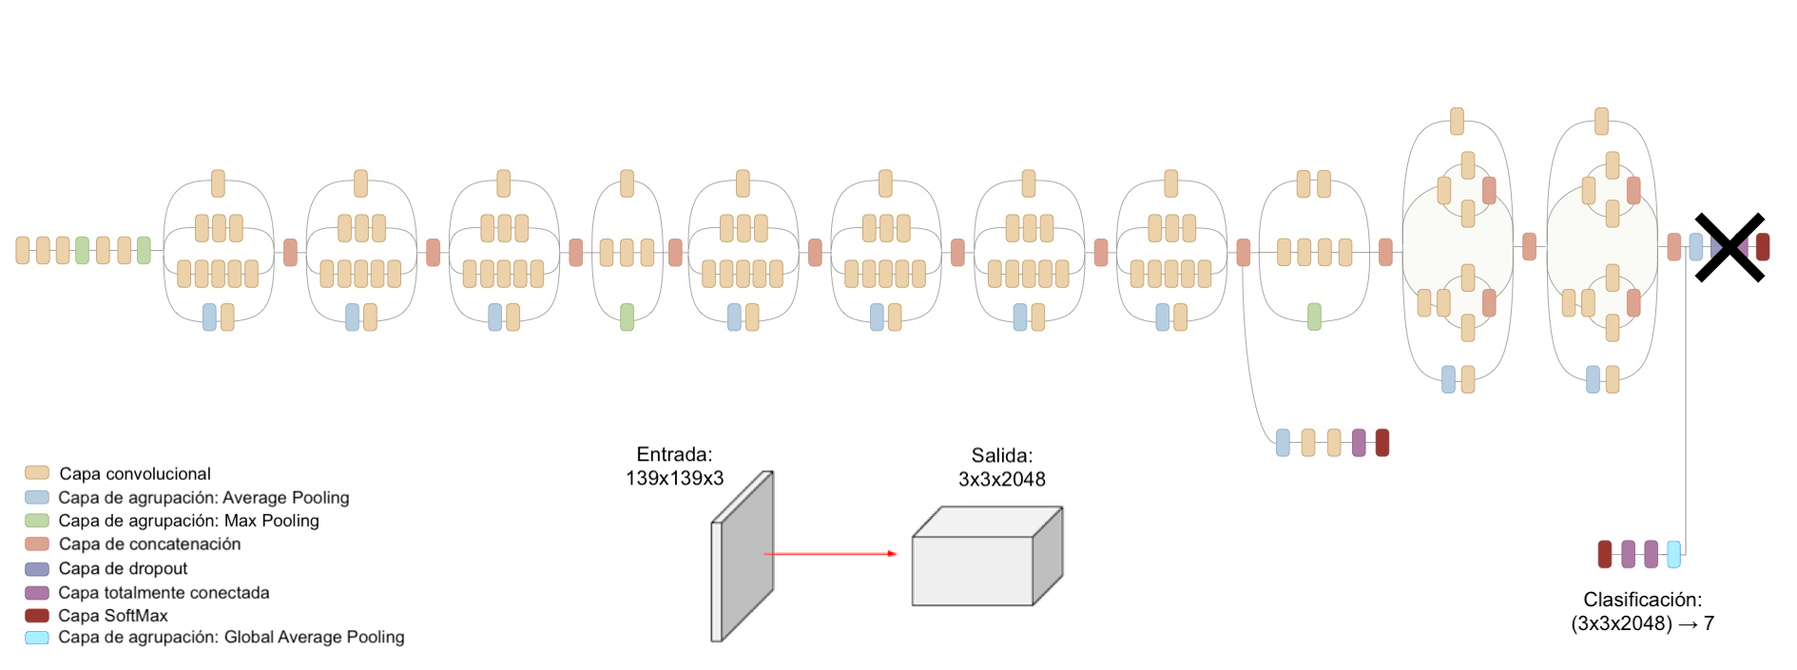
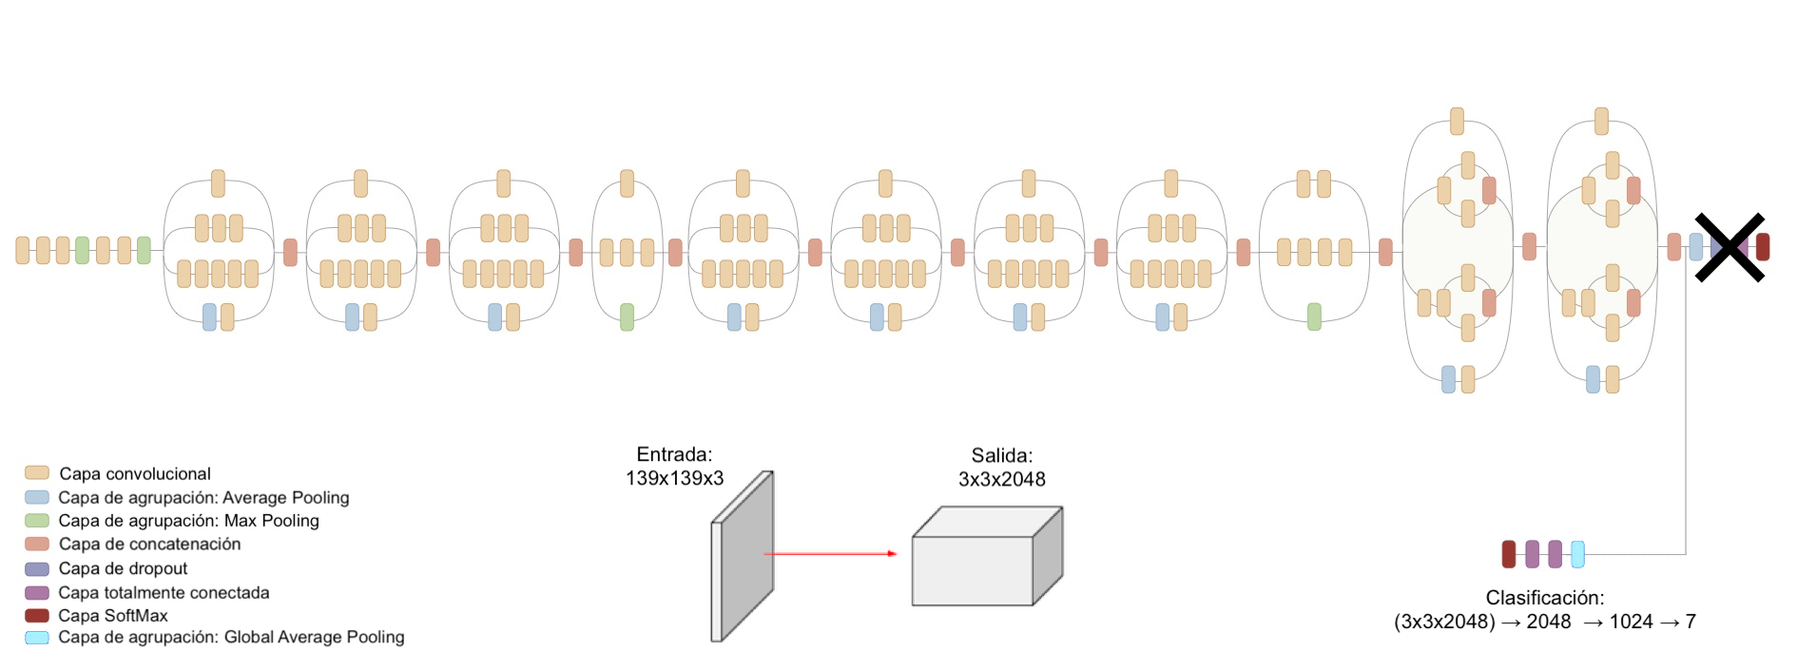
Restructuring

Changed region(s): [[0.7804, 0.8113, 0.9677, 0.9674], [0.6868, 0.6241, 0.7804, 0.6865]]

diff --git a/Chapters/chapter_5.tex b/Chapters/chapter_5.tex
@@ -1,6 +1,4 @@
-\renewcommand{\itemautorefname}{Punto}
-
-\chapter{Modelos Propuestos} \label{Chapter:5}
+\chapter{Modelos Propuestos y Resultados} \label{Chapter:5}
 
 Tal y como se ha comentado en la \autoref{Chapter:TransferLearning}, la explotación de las técnicas de transferencia de aprendizaje y por lo tanto el empleo de unos modelos con una serie de pesos ya definidos con respecto a un conjunto de datos determinado, constituyen la base de los sistemas propuestos en este capítulo.
 
@@ -11,25 +9,15 @@ Tal y como se ha comentado en la \autoref{Chapter:TransferLearning}, la explotac
     \label{fig:Models}
 \end{figure}
 
-Por consiguiente, son utilizados en primera instancia los modelos Inception-v3 \cite{Inception-v3} e Inception-ResNet-v2 \cite{Inception-ResNet} con los pesos entrenados previamente sobre el conjunto de datos ImageNet descrito en la \autoref{Chapter:ImageNet}. Sin embargo, dado que las propiedades de las imágenes de esta base de datos difieren en gran medida de las características faciales que se intentan aprender y reconocer, se ha optado por explorar el uso de modelos más sencillos pero enfocados al reconocimiento facial. Es por ello que en última instancia se emplea el modelo ResNet-50 preetrenado con la base de datos VGGFace2 expuesta en la \autoref{Chapter:VGGFace2}. La comparación de estos modelos en el desempeño del desafío ILSVRC puede observarse en la \autoref{fig:Models}. Esta representación, además, escenifica la principal razón de la elección de estos modelos concretos: son los que mejores tasas obtienen con respecto al coste computacional y al número de parámetros.
-
-Por último, obtenidos unos resultados más que aceptables y eficientes en lo que respecta al tiempo de entrenamiento, se ha intentado dar un paso más allá con la intención de mejorar las tasas de acierto y la calidad de la base de datos inicial mediante la implementación de una Red Generativa Antagónica (GAN) que permita la producción artificial de imágenes y, por lo tanto, la eliminación del desequilibrio de la distribución de clases del conjunto FER-2013.
+Por consiguiente, son utilizados en primera instancia los modelos Inception-v3 \cite{Inception-v3} e Inception-ResNet-v2 \cite{Inception-ResNet} con los pesos entrenados previamente sobre el conjunto de datos ImageNet descrito en la \autoref{Chapter:ImageNet}. Sin embargo, dado que las propiedades de las imágenes de esta base de datos difieren en gran medida de las características faciales que se intentan aprender y reconocer, se ha optado por explorar el uso de modelos menos eficaces pero enfocados al reconocimiento facial. Es por ello que en última instancia se emplea la arquitectura ResNet-50 preetrenada con la base de datos VGGFace2 expuesta en la \autoref{Chapter:VGGFace2}. La comparación de estos modelos en el desempeño del desafío ILSVRC puede observarse en la \autoref{fig:Models}. Esta representación, además, escenifica la principal razón por la cual se han elegido estos sistemas concretos: son los que mejores tasas obtienen con respecto al coste computacional y al número de parámetros.
 
 En definitiva, a lo largo del proceso de desarrollo de un sistema de reconocimiento de expresiones faciales válido, se han ido explorando numerosas arquitecturas (Inception-v3, Inception-ResNet-v2 y ResNet-50) y técnicas (aumento de datos) con el objetivo de ir obteniendo cada vez mejores resultados sobre la base de datos FER-2013. Asimismo, a fin de permitir una comparación justa con respecto a los resultados de la \autoref{Chapter:RelatedWork}, son utilizados los protocolos de uso estipulados inicialmente por este desafío y que establecen la división de esta base de datos en tres conjuntos diferentes: entrenamiento, validación y evaluación.
 
-\section{Afinación del Modelo Inception-v3}
+\section{Arquitecturas afinadas}
 
 Inception-v3 ha sido el resultado de las investigaciones llevadas a cabo por el equipo de Google para conseguir un modelo con una arquitectura cada vez más profunda e inteligente y capaz de desenvolverse de forma eficiente, tanto computacionalmente como cualitativamente, en el desafío ILSVR.
 
-%Su diseño, motivado por los experimentos a gran escala llevados a cabo sobre distintas redes convolucionales, gira en torno a cuatro principios %básicos \cite{Inception-v3}:
-%\begin{enumerate}
-%  \item Evitar los cuellos de botella, de modo que los datos fluyan de forma uniforme a lo largo de la red.
-%  \item Aumentar el número de dimensiones a medida que la información avance por la red. Las redes, de esta forma, se entrenarán más rápido.
-%  \item Bajar la resolución de la entrada antes de una capa convolucional promueve un aprendizaje más rápido y no da lugar a pérdidas %significativas de la ganancia de información.
-%  \item Equilibrar el ancho y la profundidad de la red aumenta el rendimiento de las redes neuronales. \label{item:4}
-%\end{enumerate}
-
-\subsection{Arquitectura}
+\subsection{Inception-v3}
 
 \begin{figure}
     \centering
@@ -40,68 +28,119 @@ Inception-v3 ha sido el resultado de las investigaciones llevadas a cabo por el 
 
 \begin{figure}
     \centering
-    \includegraphics[width=\textwidth]{Images/emotions.png}
-    \caption{\cite{Inception-v3}.}
-    \label{fig:InceptionModule}
+    \includegraphics[width=\textwidth]{Images/InceptionModules.png}
+    \caption{Módulos Inception empleados en la arquitectura Inception-v3. Estas estructuras son utilizadas para promover las representaciones de alta dimensión (izquierda) y la factorización de las convoluciones de dimensión $n\times n$ (derecha) \cite{Inception-v3}. En el caso particular de Inception-v3, $n=7$.}
+    \label{fig:InceptionModules}
 \end{figure}
 
-En la \autoref{fig:Inception-v3} se muestra la estructura simplificada y adaptada al problema del reconocimiento de expresiones faciales del modelo Inception-v3. Esta arquitectura propuesta es básicamente una sucesión de tramos convolucionales y no linealidades, empleándose la función de activación ReLU y la normalización por lotes en cada una de las etapas, aunque esto último no se muestre explícitamente en la representación anteriormente mencionada. Como se ha podido advertir, la característica principal de este modelo es el hecho de que el flujo de datos a lo largo de algunas secciones de esta red no es secuencial, sino que se realiza en paralelo. Estas agrupaciones son conocidas como módulos Inception y representan la solución a los problemas de eficiencia de las redes estado del arte predecesoras, cumpliendo, además, la misma función y obteniendo los mismos resultados que una capa convolucional estándar. Las diferentes estructuras de estos módulos empleados por el modelo Inception-v3 pueden observarse en la \autoref{fig:InceptionModules}. La idea detrás de estas disposiciones paralelas es que dada la misma entrada para varias capas convolucionales o de agrupación de distinto tamaño se generen características únicas para cada una de ellas que posteriormente procederán a concatenarse. Este enfoque, sin embargo, da lugar a una salida con una profundidad extremadamente grande que es solucionada principalmente mediante la utilización de filtros convolucionales $1\times 1$, especialmente efectivos para reducir la dimensionalidad \cite{NetworkInNetwork}, justo antes de las capas convolucionales de mayor tamaño. Otro de los puntos que es explotado por los módulos Inception es la sustitución de los filtros tradicionales de tamaño $n\times n$ por una secuencia de capas convolucionales de dimensionest $1\times n$ y $n \times 1$. Mediante esta técnica se consigue disminuir drásticamente los costes computacionales a medida que $n$ aumenta. En la práctica y tal como se ha visto en la \autoref{fig:InceptionModules}, son utilizados básicamente filtros con $n = 7$ y $n = 3$.
+En la \autoref{fig:Inception-v3} se muestra la estructura simplificada y adaptada al problema del reconocimiento de expresiones faciales del modelo Inception-v3. Esta arquitectura propuesta es básicamente una sucesión de tramos convolucionales y no linealidades, empleándose la función de activación ReLU y la normalización por lotes en cada una de las etapas, aunque esto último no se muestre explícitamente en la representación anteriormente mencionada. Como se ha podido advertir, la característica principal de este modelo es el hecho de que el flujo de datos a lo largo de algunas secciones de esta red no es secuencial, sino que se realiza en paralelo. Estas agrupaciones son conocidas como módulos Inception y representan la solución a los problemas de eficiencia de las redes estado del arte predecesoras, cumpliendo, además, la misma función y obteniendo los mismos resultados que una capa convolucional estándar. Las diferentes estructuras de estos módulos empleados por el modelo Inception-v3 pueden observarse en la \autoref{fig:InceptionModules}. La idea detrás de estas disposiciones paralelas es que dada la misma entrada para varias capas convolucionales o de agrupación de distinto tamaño se generen características únicas para cada una de ellas que posteriormente procederán a concatenarse. Este enfoque, sin embargo, da lugar a una salida con una profundidad extremadamente grande que es solucionada mediante la utilización de filtros convolucionales $1\times 1$, especialmente efectivos para reducir la dimensionalidad \cite{NetworkInNetwork} e incorporados justo antes de las capas convolucionales de mayor tamaño. Otro de los puntos que es explotado por los módulos Inception es la sustitución de los filtros tradicionales de tamaño $n\times n$ por una secuencia de capas convolucionales de dimensiones $1\times n$ y $n \times 1$. Mediante esta técnica se consigue disminuir drásticamente los costes computacionales a medida que $n$ aumenta. En la práctica y tal como se ha visto en la \autoref{fig:InceptionModules}, son utilizados básicamente filtros con $n = 7$ y $n = 3$.
 
-Por otro lado, dado que esta red ha sido diseñada para el reto de ImageNet, ha sido necesario sustituir la etapa de clasificación del modelo Inception-v3 original, tal y como se ha visto en la \autoref{fig:Inception-v3}. De esta forma, en primer lugar se ha introducido una capa basada en la agrupación promedio global, que impone la correspondencia entre los mapas de activación y las clases, reduce el número de parámetros y además es menos propensa al sobreaprendizaje que las capas convencionales totalmente conectadas \cite{NetworkInNetwork}. Posteriormente y con la finalidad de reducir la dimensionalidad de la red de una manera suave a las 7 clases correspondientes a las expresiones faciales que se pretenden clasificar, se han insertado dos capas totalmente conectadas.
+Por otro lado, dado que esta red ha sido diseñada para competir en el reto ImageNet, es necesario modificar la etapa de clasificación del modelo Inception-v3 original, tal y como se ha indicado en la \autoref{fig:Inception-v3}. De esta forma, en primer lugar se ha procedido a introducir una capa basada en la agrupación promedio global, que impone la correspondencia entre los mapas de activación y las clases, reduce el número de parámetros y además es menos propensa al sobreaprendizaje que las capas convencionales totalmente conectadas \cite{NetworkInNetwork}. Posteriormente y con la finalidad de reducir la dimensionalidad de la red de una manera suave a las 7 clases correspondientes a las expresiones faciales que se pretenden clasificar, son insertadas dos capas totalmente conectadas de 2\,048 y 1\,024 neuronas respectivamente.
 
-\subsection{Preprocesamiento de los datos de entrenamiento}
+En cuanto a la entrada y puesto que las imágenes del conjunto de datos FER-2013 presentan una resolución bastante baja ($48\times 48$ píxeles) en comparación con las representaciones de ImageNet ($299\times 299$ píxeles) y las mínimas aceptadas por el modelo Inception-v3 ($139\times 139$ píxeles), es requerida una modificación parcial del comportamiento de la primera etapa de la arquitectura utilizada. Concretamente es necesario modificar las dos primeras capas de agrupación para evitar la omisión de parte de los datos inyectados en la entrada. Sin embargo, esto ya es realizado por Keras de forma automática.
 
+\subsection{Inception-ResNet-v2}
 
-\subsection{Entrenamiento}
-
-\subsection{Resultados}
-
-
-
-\cite{Inception-v3}
-
-
-
-
-\section{Afinación del Modelo Inception-ResNet-v2}
 
 \cite{Inception-ResNet}
 
-\subsection{Preprocesamiento de los datos}
 
-\subsection{Arquitectura}
+\subsection{ResNet-50}
 
-\subsection{Entrenamiento}
-
-\subsection{Resultados}
-
-
-
-
-
-
-
-
-\section{Afinación del Modelo ResNet-50}
 \cite{ResNet}
 
-\subsection{Preprocesamiento de los datos}
-
-\subsection{Arquitectura}
-
-\subsection{Entrenamiento}
-
-\subsection{Resultados}
-
-
-
-
-\section{CycleGAN - Extensión de la Base de Datos FER-2013}
+\section{Entrenamiento}
 
 \subsection{Preprocesamiento de los datos}
 
-\subsection{Arquitectura}
+En este proyecto, los objetivos principales del preprocesamiento del conjunto de entrenamiento de la base de datos FER-2013 son el aumento de la heterogeneidad o diversidad de estas imágenes y su adaptación a las características de los distintos modelos empleados, así como a las especificaciones impuestas por ciertas herramientas de la API de Keras. Por todo ello, son aplicadas las siguientes transformaciones a los datos antes de su procesamiento por las arquitecturas planteadas en los siguientes apartados:
+\begin{itemize}
+  \item \textbf{Redimensionamiento}. En primer lugar es necesario modificar la resolución original de $48\times 48$ píxeles de las imágenes del conjunto de datos FER-2013 a las dimensiones aceptadas por los modelos Inception-v3, Inception-ResNet-v2 y ResNet-50 cargados en la librería de Keras. En los tres casos, y dadas las limitaciones de memorias observadas durante el entrenamiento (tratadas más detenidamente en las secciones correspondientes), la conversión se realiza a las proporciones mínimas aceptadas por estas arquitecturas:
+        \begin{itemize}
+          \item \textbf{Inception-v3}: $139\times 139$ píxeles.
+          \item \textbf{Inception-ResNet-v2}: $139\times 139$ píxeles.
+          \item \textbf{ResNet-50}: $197\times 197$ píxeles.
+        \end{itemize}
 
-\subsection{Entrenamiento}
+  Este proceso se realiza mediante el método considerado como estándar para este tipo de tareas de manipulación de imágenes y es conocido como interpolación bicúbica. A pesar de que su tiempo de procesamiento es más lento en comparación con las alternativas existentes (interpolación bilineal o interpolación por el vecino más cercano) es el que mejor resultados permite obtener en términos de calidad. Por ello y para evitar aumentar más el ruido de las imágenes empleadas, cuya calidad de por sí es bastante pobre, se ha optado por esta opción.
+  
+  Por otro lado, las tres red originales presuponen en la entrada imágenes con un modelo de color RGB, por lo que también se hace necesario hacer una conversión de las representaciones de expresiones faciales en escala de grises a esta especificación. Esto es realizado simplemente mediante una reproducción de las imágenes originales a lo largo de las tres dimensiones correspondientes a los tres espacios de color de destino.
+  \item \textbf{Normalización}. Dado que tras el redimensionado las imágenes se componen de una serie de coeficientes RGB en el intervalo $[0, 255]$, es indispensable realizar una normalización con el fin de evitar el manejo de valores demasiado altos que generalmente dan lugar a una ralentización del proceso de aprendizaje. Concretamente, y con el objetivo de no eliminar en primera instancia los valores de los pesos iniciales, se han seguido los mismos procedimientos de regularización que en las redes originales preentrenadas:
+        \begin{itemize}
+            \item \textbf{Inception-v3} y \textbf{Inception-ResNet-v2}. Los valores RGB del intervalo $[0, 255]$ son adaptados al espacio $[-1, 1]$ mediante la expresión matemática de la \autoref{eq:PreprocessInception}.
+                \begin{align} \label{eq:PreprocessInception}
+                  \hat{x} &= \frac{x}{127.5} - 1 & \forall \text{\space} x \in [0, 255]
+                \end{align}
+            \item \textbf{ResNet-50}: Tanto en el documento original de este modelo \cite{ResNet} como en el artículo que hace uso de la base de datos VGGFace2 \cite{VGGFace2}, la normalización es llevada a cabo mediante la sustracción a cada uno de los píxeles del valor promedio del espacio de color al que corresponden. Mediante este proceso se consigue el centrado de los datos en cero. Sin embargo, dado que el conjunto FER-2013 adaptado según el punto anterior presenta los mismos coeficientes RGB en los 3 canales, se ha considerado conveniente realizar la sustracción del mismo promedio a cada una de las dimensiones según la \autoref{eq:PreprocessResNet}.
+                \begin{align} \label{eq:PreprocessResNet}
+                  \hat{x} &= x - \overline{x} = x - 128.8006 & \forall \text{\space} x \in [0, 255]
+                \end{align}
+            Asimismo, el valor de esta media se ha calculado tan sólo sobre el conjunto de entrenamiento, aplicándose posteriormente a los grupos de validación y evaluación. 
+        \end{itemize}
+        
+  \item \textbf{Transformaciones geométricas}. Tal y como se ha visto en la \autoref{Chapter:GeometricTransformations}, la aplicación de una serie de transformaciones geométricas a las imágenes del conjunto de entrenamiento puede enriquecer la base de datos empleada. En el caso particular de este proyecto se realizan las siguientes conversiones lineales de forma pseudoaleatoria en cada iteración del entrenamiento:
+        \begin{itemize}
+          \item \textbf{Rotación}. Es aplicada una rotación de sentido aleatorio de entre 0 y 10 grados sexagesimales a cada una de las imágenes. Para la elección de este valor se han tenido en cuenta el rango máximo de flexión lateral del cuello, que varía entre 20 y 45 grados \cite{LateralFlexion},y el hecho de que ciertas imágenes del conjunto de entrenamiento FER-2013 ya presentan rostros ligeramente girados.
+          \item \textbf{Transformación de cizallamiento}. Esta transformación también es conocida como inclinación y es efectuada en las direcciones del eje de abscisas con una intensidad comprendida entre los 0 y los 10 grados sexagesimales.
+          \item \textbf{Volteo}. Se fuerza a un volteo horizontal aleatorio de las imágenes inyectadas. 
+          \item \textbf{\textit{Zoom}}. A pesar de que los datos de entrenamiento ya se componen de imágenes con rostros centrados y enfocados, se ha recurrido a una ampliación o reducción de carácter aleatorio de las representaciones del 10\% con el objetivo de lograr una mayor generalización.
+          \item \textbf{Relleno}. Dado que algunas de las transformaciones anteriormente nombradas implican la introducción de puntos externos a las imágenes en los campos receptivos originales, se hace necesaria la aplicación de un método para evitar la inclusión de este ruido. En este contexto se han explorado distintos procedimientos de relleno, como la propagación constante de píxeles o el método de los vecinos más próximos. Sin embargo, los mejores resultados observados experimentalmente se han obtenido mediante la técnica de reflexión de las imágenes transformadas.
+        \end{itemize}
+\end{itemize}
 
-\subsection{Resultados}
+\subsection{Despliegue de los modelos en la plataforma Google Cloud}
+
+% upper layers training
+    % optimizer   = Adam(lr = 1e-3, beta_1 = 0.9, beta_2 = 0.999, epsilon = 1e-08, decay = 0.0)
+    % loss        = 'categorical_crossentropy'
+    
+    
+% all layers training    
+    % epochs_all_layers   = 100
+    % optimizer   = SGD(lr = 1e-3, momentum = 0.9, decay = 0.0, nesterov = True)
+    % loss        = 'categorical_crossentropy' 
+    
+    % if (epoch % 3) == 0 and current_lr > 1e-4 and epoch != 0:
+    % K.set_value(model.optimizer.lr, current_lr * 0.5)
+    
+    % reduce_lr_2 = ReduceLROnPlateau(
+	% monitor 	= 'val_loss',
+	% factor		= 0.5,
+	% patience	= 3,
+	% mode 		= 'auto',
+	% min_lr		= 1e-6)
+	
+	%early_stop = EarlyStopping(
+	%monitor 	= 'val_loss',
+	%patience 	= 10,
+	%mode 		= 'auto')
+
+% batch_size          = 128
+% tensorboard 
+% ModelCheckpoint
+% Save model.h5 on to google storage
+
+
+\subsubsection{Inception-v3 e Inception-ResNet-v2}
+
+
+\subsubsection{ResNet-50}
+
+
+\section{Resultados}
+
+\subsection{Inception-v3}
+
+\cite{Inception-v3}
+
+\subsection{Inception-ResNet-v2}
+
+
+\cite{Inception-ResNet}
+
+
+\subsection{ResNet-50}
+
+\cite{ResNet}
+
+

diff --git a/Chapters/chapter_4.tex b/Chapters/chapter_4.tex
@@ -11,7 +11,6 @@ En otros términos, la disposición de la arquitectura convolucional más habitu
     &\boxed{\text{Entrada}} \rightarrow \boxed{\boxed{\text{Capa Convolucional} \rightarrow \text{Capa ReLU}} \times \textbf{N} \rightarrow \text{Capa \textit{Pooling}}} \times \textbf{M} \rightarrow \\ 
     & \boxed{\text{Capa Totalmente Conectada} \rightarrow \text{Capa ReLU}} \times \textbf{K} \rightarrow \boxed{\text{Capa Totalmente Conectada}}
 \end{align*}
-
 También cabe destacar que cada una de las capas que a continuación se detallan son ofrecidas como funciones particulares por la API de Keras.
 
 \subsection{Capa Convolucional}
@@ -30,7 +29,6 @@ La capa convolucional es el componente básico de una CNN y sobre la que recae l
     I &\equiv \text{imagen bidimensional de entrada,} \notag \\
     K &\equiv \text{matriz de convolución o \textit{kernel} de dimensión $h\times w$} \notag
 \end{align}
-
 Esta compartición de pesos a lo largo de todo el campo visual es precisamente la que permita que todas las neuronas de una capa convolucional respondan de forma uniforme a una característica concreta, independientemente de su posición. Consecuentemente, la red aprenderá los filtros o pesos que se activan con algún tipo de singularidad visual, como bordes o manchas de algún color específico en las primeras capas o patrones enteros en las capas superiores. Finalmente, el volumen de salida se obtiene apilando los mapas de activación a lo largo de la dimensión de profundidad.
 
 Por último, es necesario remarcar que la agrupación sucesiva de estas capas convolucionales tiene como fin la imposición de una arquitectura compuesta de filtros no lineales que, conforme aumenta la profundidad de la red, se van haciendo más globales y por lo tanto más sensibles a regiones más amplias del espacio de píxeles.
@@ -82,7 +80,6 @@ En la actualidad, la función no lineal más popular es la Unidad Lineal Rectifi
 \begin{align} \label{eq:ReLU}
     f(x) &= max(0, x) 
 \end{align}
-
 \begin{figure}
     \centering
     \includegraphics[scale=0.6]{Images/ReLU.png}
@@ -96,7 +93,7 @@ A pesar de todo ello, mediante la función de activación ReLU no es posible com
 
 Tal y como puede observarse en la \autoref{eq:SoftMax}, esta función toma un vector N-dimensional y evalúa cada uno de sus elementos dentro del rango $[0, 1]$, cuya suma, además, pasa a ser la unidad, lo que proporciona un entorno especialmente adecuado para la interpretación probabilística en las tareas de clasificación multiclase.
 \begin{align} \label{eq:SoftMax}
-    p_i &= \frac{e^{f_{y_i}}}{\sum\limits_{j=1}^{N} e^{f_j}} & \forall \text{\space} i \in \text{1...N} \\
+    p_i &= \frac{e^{f_{y_i}}}{\sum\limits_{j=1}^{N} e^{f_j}} & \forall \text{\space} i \in \text{$1$...$N$} \\
     \text{donde}~ 
     f_j &\equiv \text{elemento $j$-ésimo del vector de probabilidades} \notag
 \end{align}
@@ -113,12 +110,12 @@ Por último, es necesario indicar que el pseudocódigo de este proceso de normal
 
 \subsection{Capa de \textit{Dropout}}
 
-La operación de \textit{Droput} es una técnica que permite evitar el sobreaprendizaje, proporcionando una forma de combinar, aproximadamente y de forma exponencial, distintas arquitecturas neuronales de un mismo modelo de manera eficiente \cite{Srivastava}. 
+La operación de \textit{droput} es una técnica que permite evitar el sobreaprendizaje, proporcionando una forma de combinar, aproximadamente y de forma exponencial, distintas arquitecturas neuronales de un mismo modelo de manera eficiente \cite{Srivastava}. 
 
 \begin{figure}
     \centering
     \includegraphics[scale=0.25]{Images/Dropout.png}
-    \caption{Red neuronal estándar con 2 capas ocultas (izquierda) y red análoga a la anterior a la que se le ha aplicado la operación de \textit{Dropout} (derecha) \cite{Srivastava}.}
+    \caption{Red neuronal estándar con 2 capas ocultas (izquierda) y red análoga a la anterior a la que se le ha aplicado la operación de \textit{dropout} (derecha) \cite{Srivastava}.}
     \label{fig:Dropout}
 \end{figure}
 
@@ -154,7 +151,7 @@ En el campo del aprendizaje profundo, donde el tamaño de las bases de datos tie
 
 De esta forma y teniendo en cuenta las limitaciones de la mayoría de las bases de datos, se hace evidente que el empleo de estas técnicas puede dar lugar a mejoras considerables de los resultados. Asimismo, en el contexto de la clasificación de imágenes de expresiones faciales, donde los datos, en la mayoría de los casos, son inadecuados o insuficientes y la distribución de clases desequilibrada, parece resultar especialmente adecuado el empleo de las redes generativas y de las transformaciones geométricas para mejorar el conjunto de entrenamiento.
 
-\subsection{Transformaciones Geométricas}
+\subsection{Transformaciones Geométricas} \label{Chapter:GeometricTransformations}
 
 Con el objetivo de aprovechar lo máximo posible el conjunto de entrenamiento, las transformaciones geométricas pretenden extender la heterogeneidad de los datos de entrada de modo que durante el aprendizaje el modelo entrenado no procese más de una vez la misma imagen. De esta forma se consigue prevenir el sobreaprendizaje y obtener una mejor generalización mediante la alimentación del sistema con unos datos que presentan características diferentes en cada iteración del proceso de entrenamiento.
 
@@ -177,7 +174,6 @@ En la \autoref{fig:GAN} se muestra la estructura de este tipo de redes caracteri
 \begin{align} \label{eq:GAN}
     \underset{G}{min} \ \underset{D}{max} \ \mathcal{V}(D, G) &= \underbrace{\mathbb{E}_{x\sim p_{datos}(x)} \big[\log D(x)\big]}_{1^{er} \ t\acute{e}rmino} \ + \ \underbrace{\mathbb{E}_{z\sim p_{z}(z)} \big[\log (1- D(G(z)))\big]}_{2^{o} \ t\acute{e}rmino}
 \end{align}
-
 En definitiva, esta técnica permite generar imágenes que parecen, al menos superficialmente, auténticas para los observadores humanos a partir de otras que están parcialmente relacionadas con el resultado que se quiere obtener.
 
 \subsubsection{Redes Generativas Antagónicas de Ciclo Consecuente}
@@ -198,7 +194,6 @@ En la \autoref{fig:cycleGAN} se puede observar la estructura simplificada de est
     \mathcal{L}_{cycleGAN}(G, F) &= \mathbb{E}_{x\sim p_{datos}(x)} \big[\norm{F(G(x)) - x}\big] + \notag \\ &\quad \mathbb{E}_{y\sim p_{datos}(y)} \big[\norm{G(F(y)) - y}\big] \label{eq:CycleGANLoss}\\
     \lambda &\equiv \text{peso de la función de pérdidas de ciclo consecuente} \notag
 \end{align}
-
 En esta ocasión no sólo se pretende hacer que las imágenes generadas se perciban como las imágenes objetivo, sino que también las reconstruidas sean identificadas como las originales, garantizándose así la consistencia del ciclo. Es por ello que se introduce el término de la \autoref{eq:CycleGANLoss}, el cual tiene en consideración el error existente entre las representaciones de entrada y sus reconstrucciones obtenidas al pasar a través de las dos funciones de mapeo, $G$ y $F$.
 
 Resumidamente, en el ámbito particular de este proyecto, la utilización de estas redes tiene como fin el aumento del número de imágenes que tienen menor representación de la base de datos de expresiones faciales FER-2013 para obtener un mejor comportamiento del sistema final.

diff --git a/Chapters/chapter_2.tex b/Chapters/chapter_2.tex
@@ -154,7 +154,6 @@ La forma más simple y común de llevar a cabo la optimización es, precisamente
     \omega_t &\equiv \text{peso en un instante determinado,} \notag \\
     \lambda &> 0 \text{\space es la tasa de aprendizaje} \notag
 \end{align}
-
 Los métodos Momentum, por su parte, presentan un enfoque que ofrece mejores tasas de convergencia, ya que emplean el gradiente para actualizar los parámetros de una forma más efectiva al acumular velocidad en las direcciones que reducen continuamente la función de pérdidas, tal y como se muestra en la \autoref{eq:SGDMomentum}. 
 \begin{align}
     v_t &= \mu \cdot v_{t-1} - \lambda \cdot \nabla f(\omega_{t-1}) \\
@@ -163,7 +162,6 @@ Los métodos Momentum, por su parte, presentan un enfoque que ofrece mejores tas
     v &\equiv \text{ vector de velocidad,} \notag \\
     \mu &\in [0,1] \text{\space es el momento lineal} \notag
 \end{align}
-
 \begin{figure}
     \centering
     \includegraphics[width=\textwidth]{Images/NesterovMomentum.png}
@@ -197,7 +195,6 @@ De esta forma, Adam, además de almacenar un promedio del primer momento (la med
     m_t \text{\space y \space} v_t &\equiv \text{estimaciones del primer y segundo momento,} \notag \\
     \hat{m}_t \text{\space y \space} \hat{v}_t &\equiv \text{estimaciones del primer y segundo momento corregidas} \notag
 \end{align}
-
 De forma específica, este algoritmo englobado en la \autoref{eq:Adam} calcula en un primer momento un promedio exponencial del gradiente ($m_t$) y del gradiente cuadrado ($v_t$), cuyas tasas de descenso son controladas mediante los parámetros $\beta_1$ y $\beta_2$. Por otro lado, como $m_t$ y $v_t$ son inicialmente nulos, es necesario aplicarles una corrección para evitar su sesgado hacia cero, especialmente notable durante las primeras iteraciones. Tras ello, se realiza la actualización de los parámetros de manera análoga al método del descenso estocástico del gradiente.
 
 \section{Trabajos Relacionados} \label{Chapter:RelatedWork}

diff --git a/Chapters/chapter_7.tex b/Chapters/chapter_7.tex
@@ -1,17 +1,3 @@
-\chapter{Conclusiones y líneas futuras} \label{Chapter:7}
+\chapter{Integración del modelo dentro de un espejo inteligente} \label{Chapter:7}
 
-\begin{table}
-\centering
-\label{my-label}
-\begin{tabular}{c|c|c|c|c|}
-\cline{2-5}
- & \textbf{Precisión} & \textbf{Tamaño} & \textbf{Parámetros} & \textbf{Profundidad} \\ \hline
-\multicolumn{1}{|c|}{\textbf{Inception-v3}} & aa & 92 MB & 23\,851\,784 & 159 \\ \hline
-\multicolumn{1}{|c|}{\textbf{Inception-ResNet-v2}} & bb & 215 MB & 55\,873\,736 & 572 \\ \hline
-\multicolumn{1}{|c|}{\textbf{ResNet-50}} & cc & 99 MB & 25\,636\,712 & 168 \\ \hline
-\end{tabular}
-\caption{My caption} \label{Table:Models}
-\end{table}
-
-
-Por último, hace falta añadir que el código fuente de este trabajo está disponible, junto con los resultados y las instrucciones para replicarlos, en el siguiente repositorio: \url{https://github.com/ivadym/facial-expression-recognition}.
+%En lo que respecta a este proceso automatizado de reconocimiento, y dado que los ordenadores captan la información de su entorno gracias a los distintos sensores que incorporan, se pueden establecer los siguientes criterios para un diseño y una identificación eficiente \cite{Picard}:

diff --git a/Chapters/chapter_6.tex b/Chapters/chapter_6.tex
@@ -1,3 +1,9 @@
-\chapter{Integración del modelo dentro de un espejo inteligente} \label{Chapter:6}
+\chapter{Extensión de la Base de Datos FER-2013} \label{Chapter:6}
 
-%En lo que respecta a este proceso automatizado de reconocimiento, y dado que los ordenadores captan la información de su entorno gracias a los distintos sensores que incorporan, se pueden establecer los siguientes criterios para un diseño y una identificación eficiente \cite{Picard}:
+Oobtenidos unos resultados más que aceptables y eficientes en lo que respecta al tiempo de entrenamiento, se ha intentado dar un paso más allá con la intención de mejorar las tasas de acierto y la calidad de la base de datos inicial mediante la implementación de una Red Generativa Antagónica (GAN) que permita la producción artificial de imágenes y, por lo tanto, la eliminación del desequilibrio de la distribución de clases del conjunto FER-2013.
+
+\section{Arquitectura de la Red Generativa Antagónica de Ciclo Consecuente}
+
+\section{Entrenamiento}
+
+\section{Resultados}

diff --git a/Chapters/chapter_8.tex b/Chapters/chapter_8.tex
@@ -1,0 +1,17 @@
+\chapter{Conclusiones y líneas futuras} \label{Chapter:8}
+
+\begin{table}
+\centering
+\label{my-label}
+\begin{tabular}{c|c|c|c|c|}
+\cline{2-5}
+ & \textbf{Precisión} & \textbf{Tamaño} & \textbf{Parámetros} & \textbf{Profundidad} \\ \hline
+\multicolumn{1}{|c|}{\textbf{Inception-v3}} & aa & 92 MB & 23\,851\,784 & 159 \\ \hline
+\multicolumn{1}{|c|}{\textbf{Inception-ResNet-v2}} & bb & 215 MB & 55\,873\,736 & 572 \\ \hline
+\multicolumn{1}{|c|}{\textbf{ResNet-50}} & cc & 99 MB & 25\,636\,712 & 168 \\ \hline
+\end{tabular}
+\caption{My caption} \label{Table:Models}
+\end{table}
+
+
+Por último, hace falta añadir que el código fuente de este trabajo está disponible, junto con los resultados y las instrucciones para replicarlos, en el siguiente repositorio: \url{https://github.com/ivadym/facial-expression-recognition}.

diff --git a/Summary/glossary.tex b/Summary/glossary.tex
@@ -17,6 +17,7 @@
     \textbf{MLP} & Perceptrón Multicapa \\
     \textbf{ZCA} & Análisis de Componentes de Fase Cero \\
     \textbf{ReLU} & Unidad Lineal Rectificada \\
+    \textbf{RGB} & Rojo, Verde y Azul \\
     \textbf{RMSProp} & Propagación del Valor Cuadrático Medio \\
     \textbf{SGD} & Descenso de Gradiente Estocástico \\
     \textbf{SVM} & Máquinas de Vectores de Soporte \\
@@ -28,7 +29,8 @@
 \\
 \begin{mathexprs}
 \begin{tabular}{l l}
-    \textbf{$\mu_x$} & Promedio de $x$ \\
+    \textbf{$\mu_x = \overline{x}$} & Promedio de $x$ \\
+    \textbf{$\hat{x}$} & Valor normalizado de $x$ \\
     \textbf{$\sigma_{x}^{2}$} & Varianza de $x$ \\
     \textbf{$\nabla f = f'$} & Gradiente de $f$ \\
     \textbf{$\Delta f = \nabla^2 f$} & Laplaciano de $f$ \\

diff --git a/Chapters/chapter_3.tex b/Chapters/chapter_3.tex
@@ -33,7 +33,7 @@ Google Cloud Platform es una plataforma que ofrece un conjunto de servicios modu
     \multicolumn{1}{|c|}{\textbf{\begin{tabular}[c]{@{}c@{}}NVIDIA\\ Tesla K80\end{tabular}}}       & 12 GB GDDR5   & 2496 & 240 GB/s   & 1 -- 52 GB \\ \hline
     \multicolumn{1}{|c|}{\textbf{\begin{tabular}[c]{@{}c@{}}NVIDIA\\ Tesla P100\end{tabular}}}      & 16 GB HBM2    & 3584 & 732 GB/s   & 1 -- 104 GB \\ \hline
 \end{tabular}
-\caption{Comparación entre las GPUs tanteadas durante el desarrollo del proyecto.}
+\caption{Comparación entre las GPUs empleadas durante el desarrollo del proyecto.}
 \label{Table:GPU}
 \end{table}
 

diff --git a/Main.tex b/Main.tex
@@ -78,6 +78,7 @@
     \include{Chapters/chapter_5}
     \include{Chapters/chapter_6}
     \include{Chapters/chapter_7}
+    \include{Chapters/chapter_8}
     \appendix
     \include{Appendices/appendix_A}
     \include{Appendices/appendix_B}
